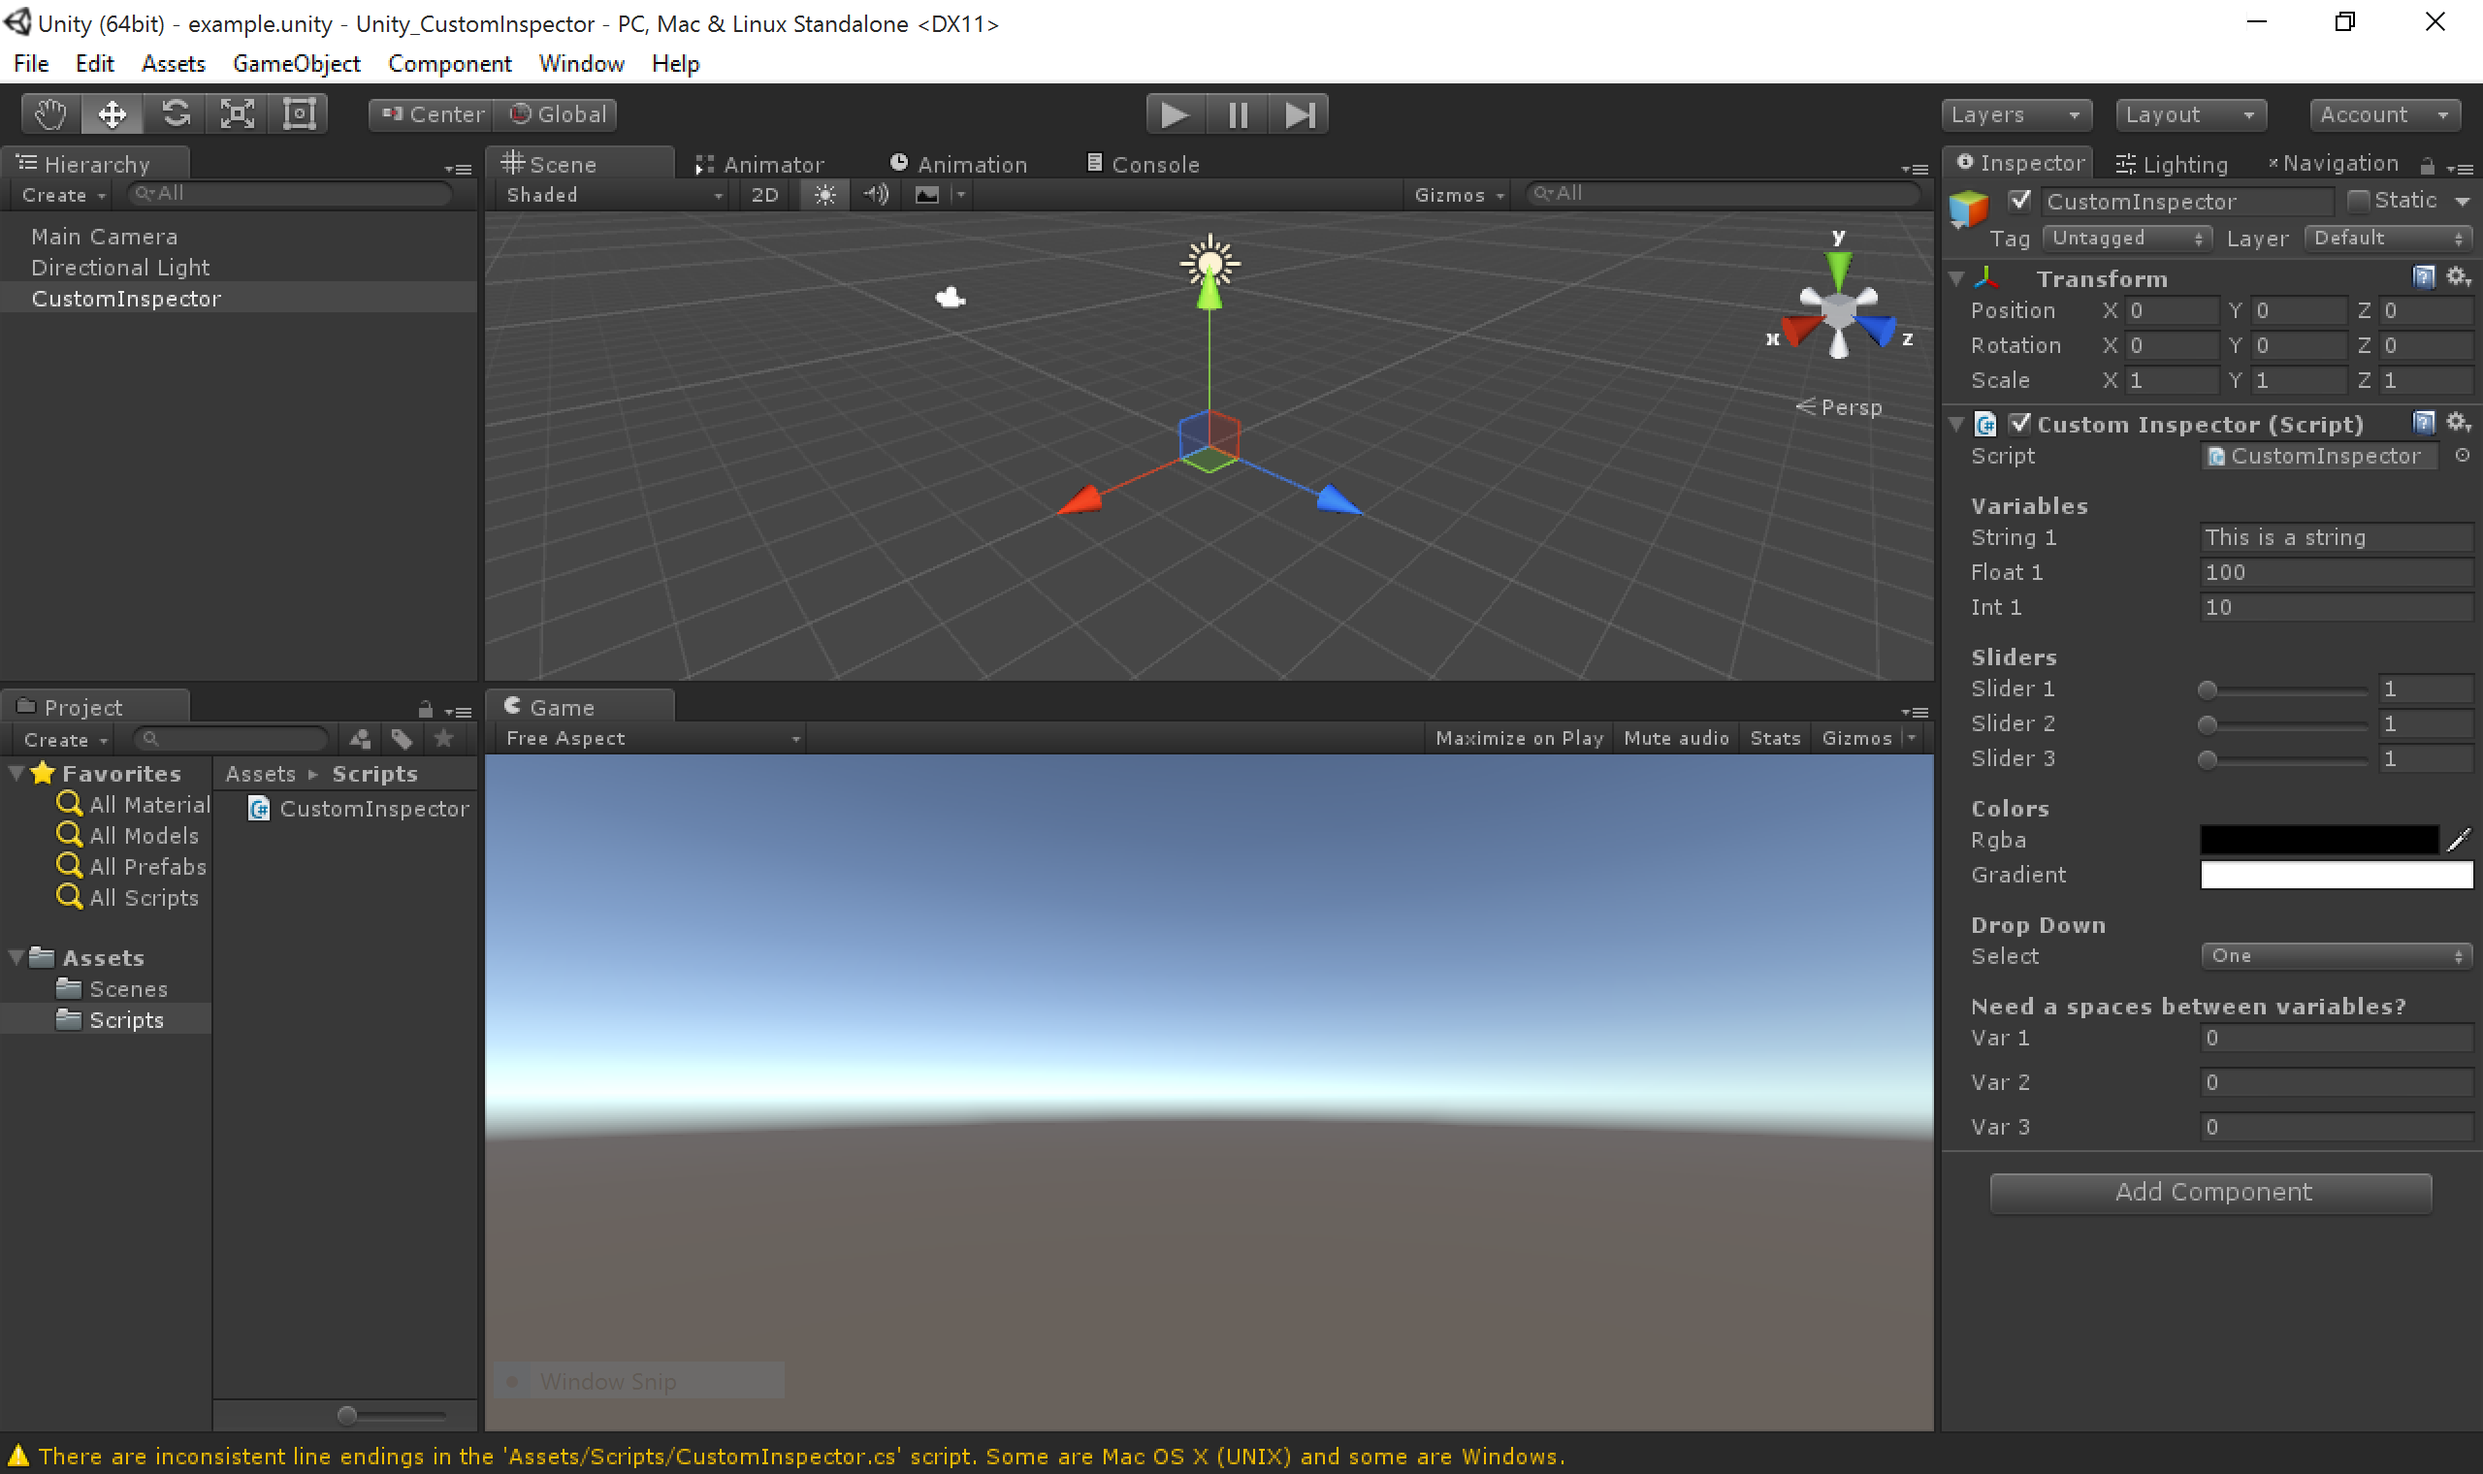
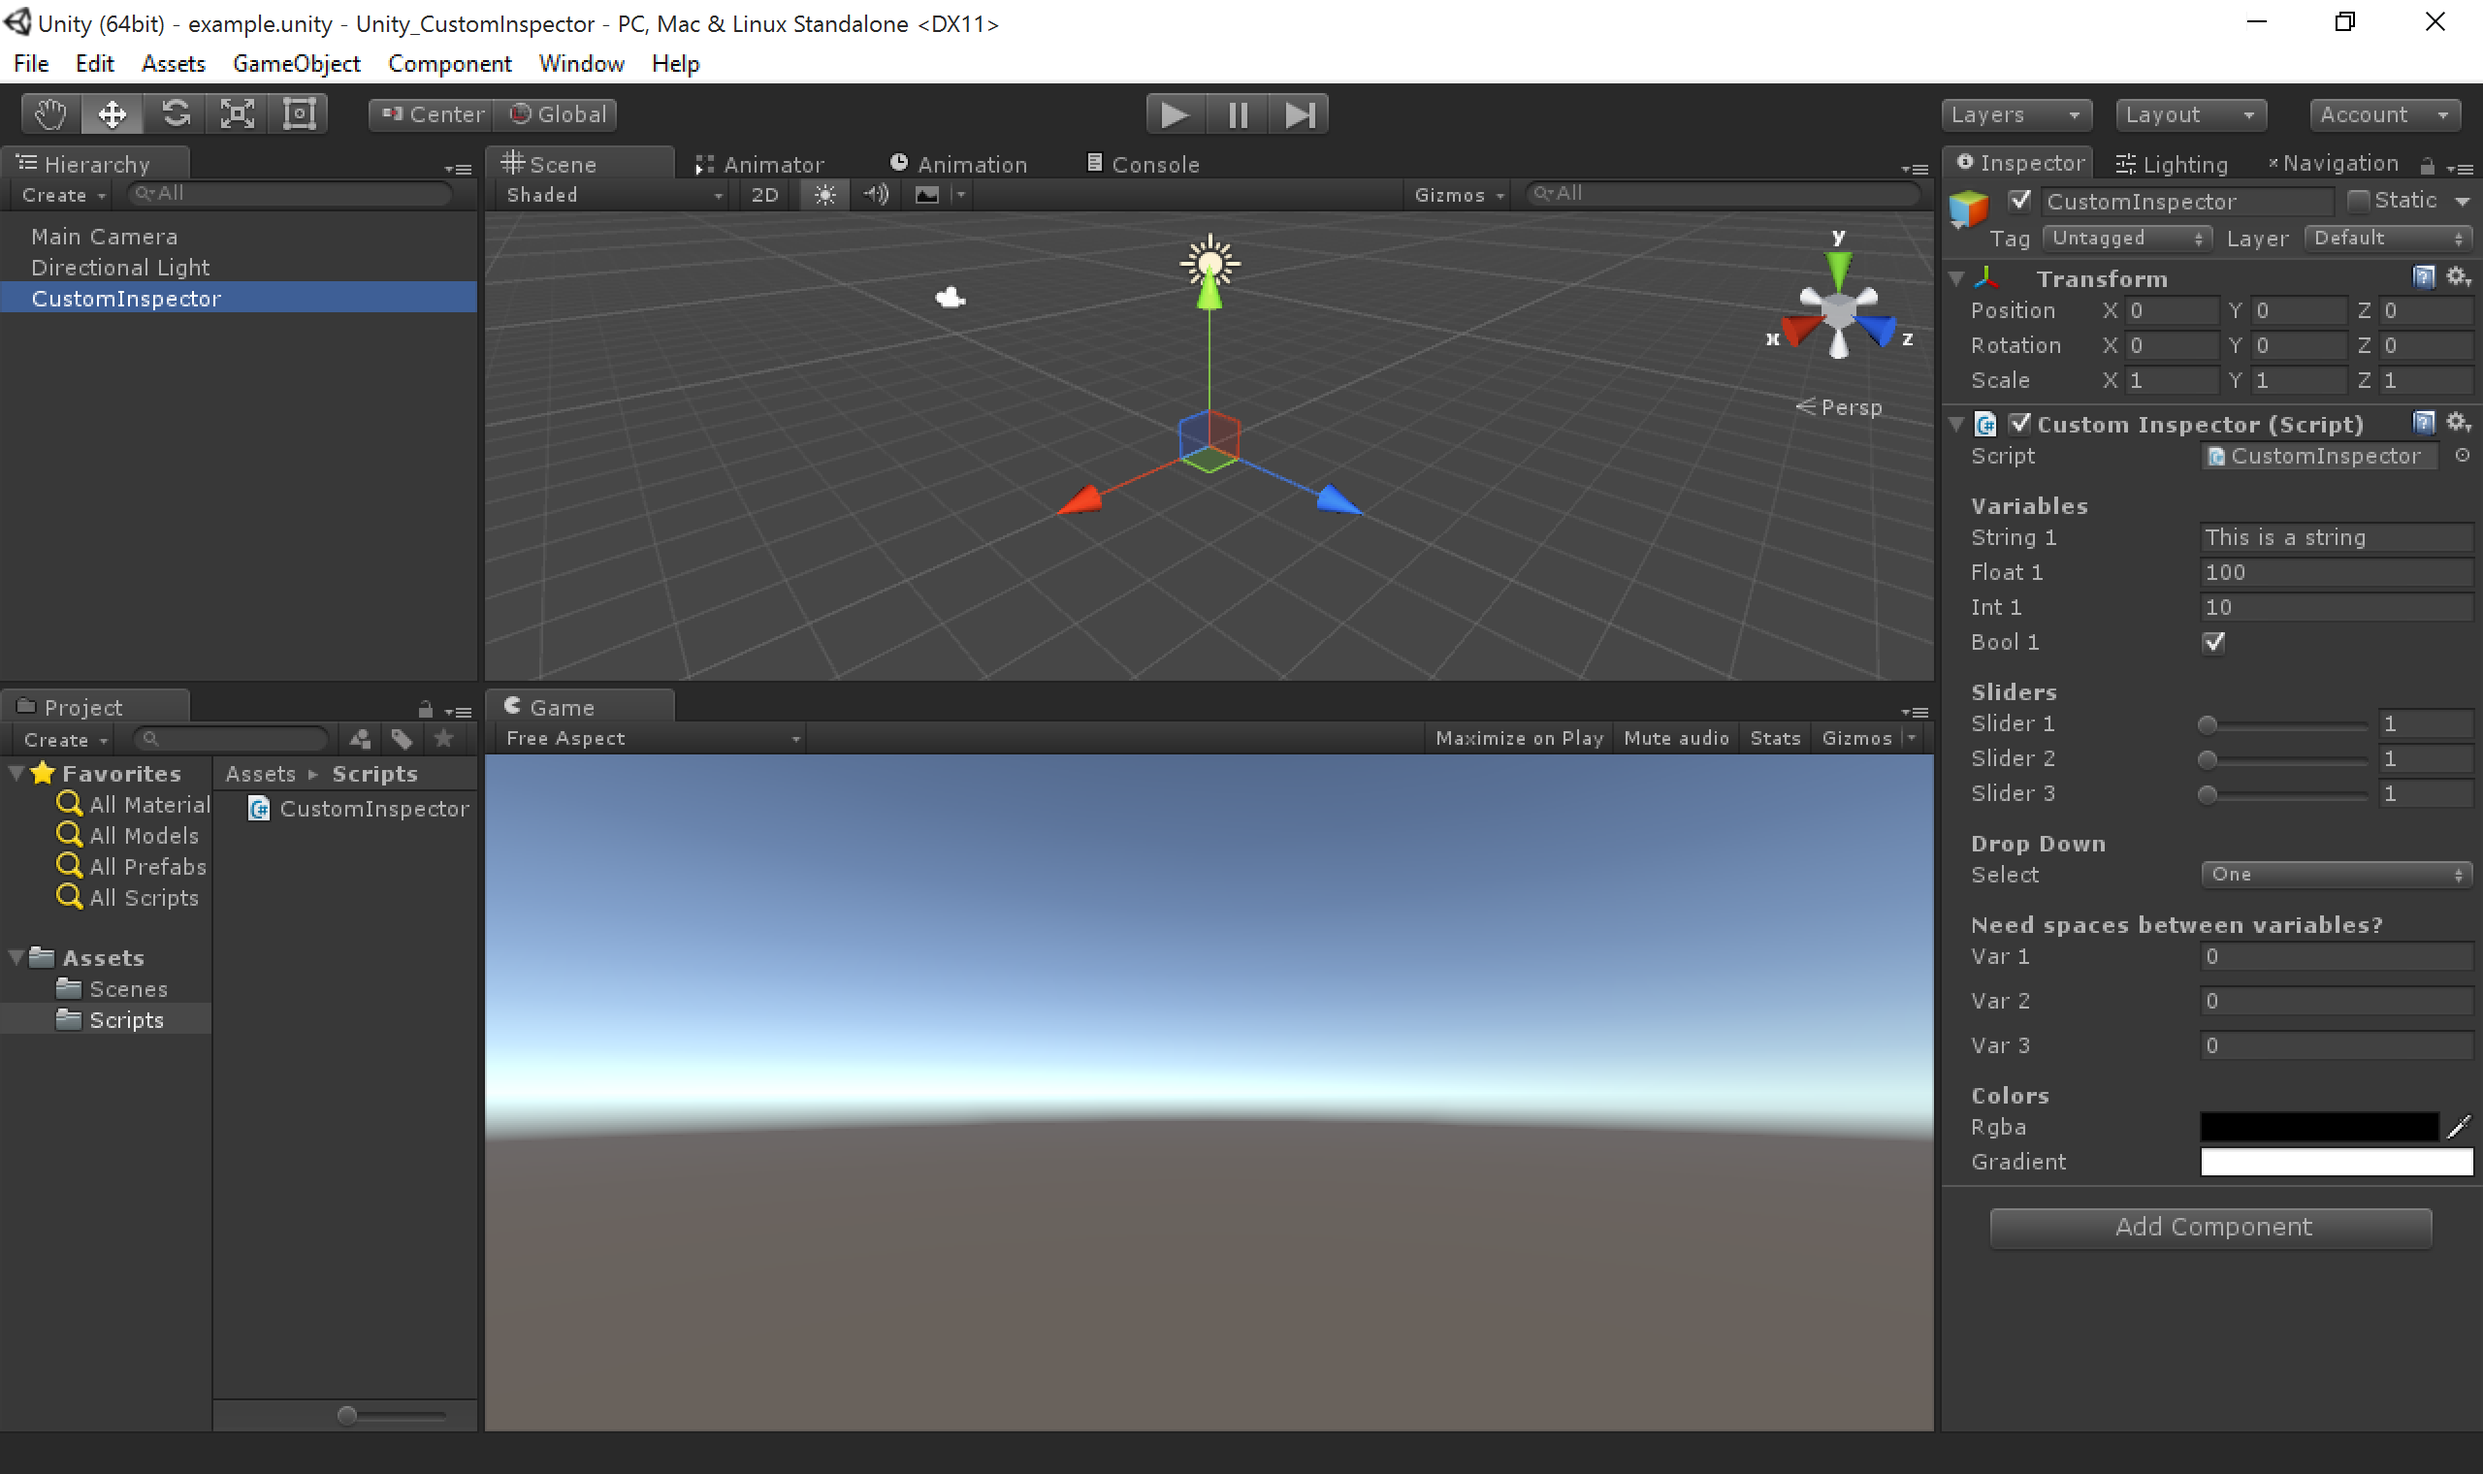
init

diff --git a/Assets/Scripts/CustomInspector.cs b/Assets/Scripts/CustomInspector.cs
@@ -15,6 +15,7 @@ public class CustomInspector : MonoBehaviour
     public string string1 = "This is a string";
     public float float1 = 100.0f;
     public int int1 = 10;
+    public bool bool1 = true;
 
     [Header("Sliders")]
     [Range(1f, 10f)]
@@ -34,7 +35,7 @@ public class CustomInspector : MonoBehaviour
     [Header("Drop Down")]
     public Selector select = Selector.One;
 
-    [Header("Need a spaces between variables?")]
+    [Header("Need spaces between variables?")]
     public float var1;
     [Space(5f)]
     public float var2;
